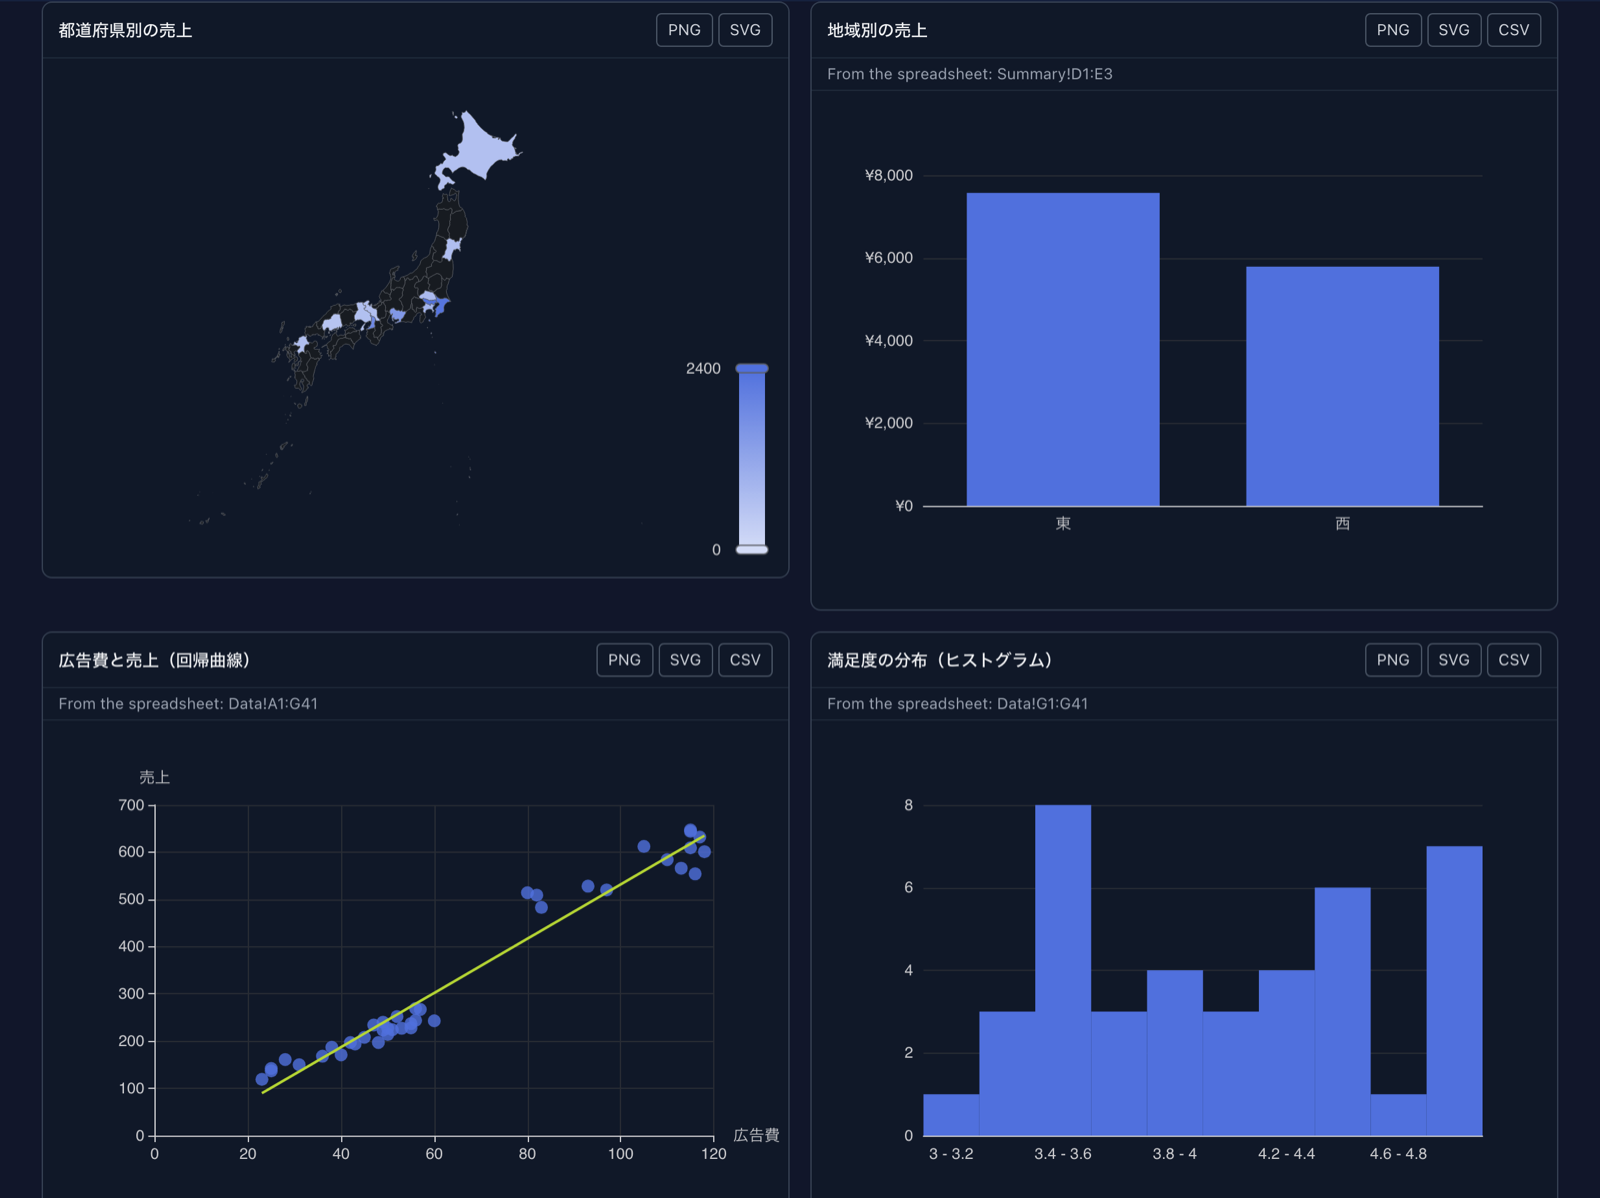
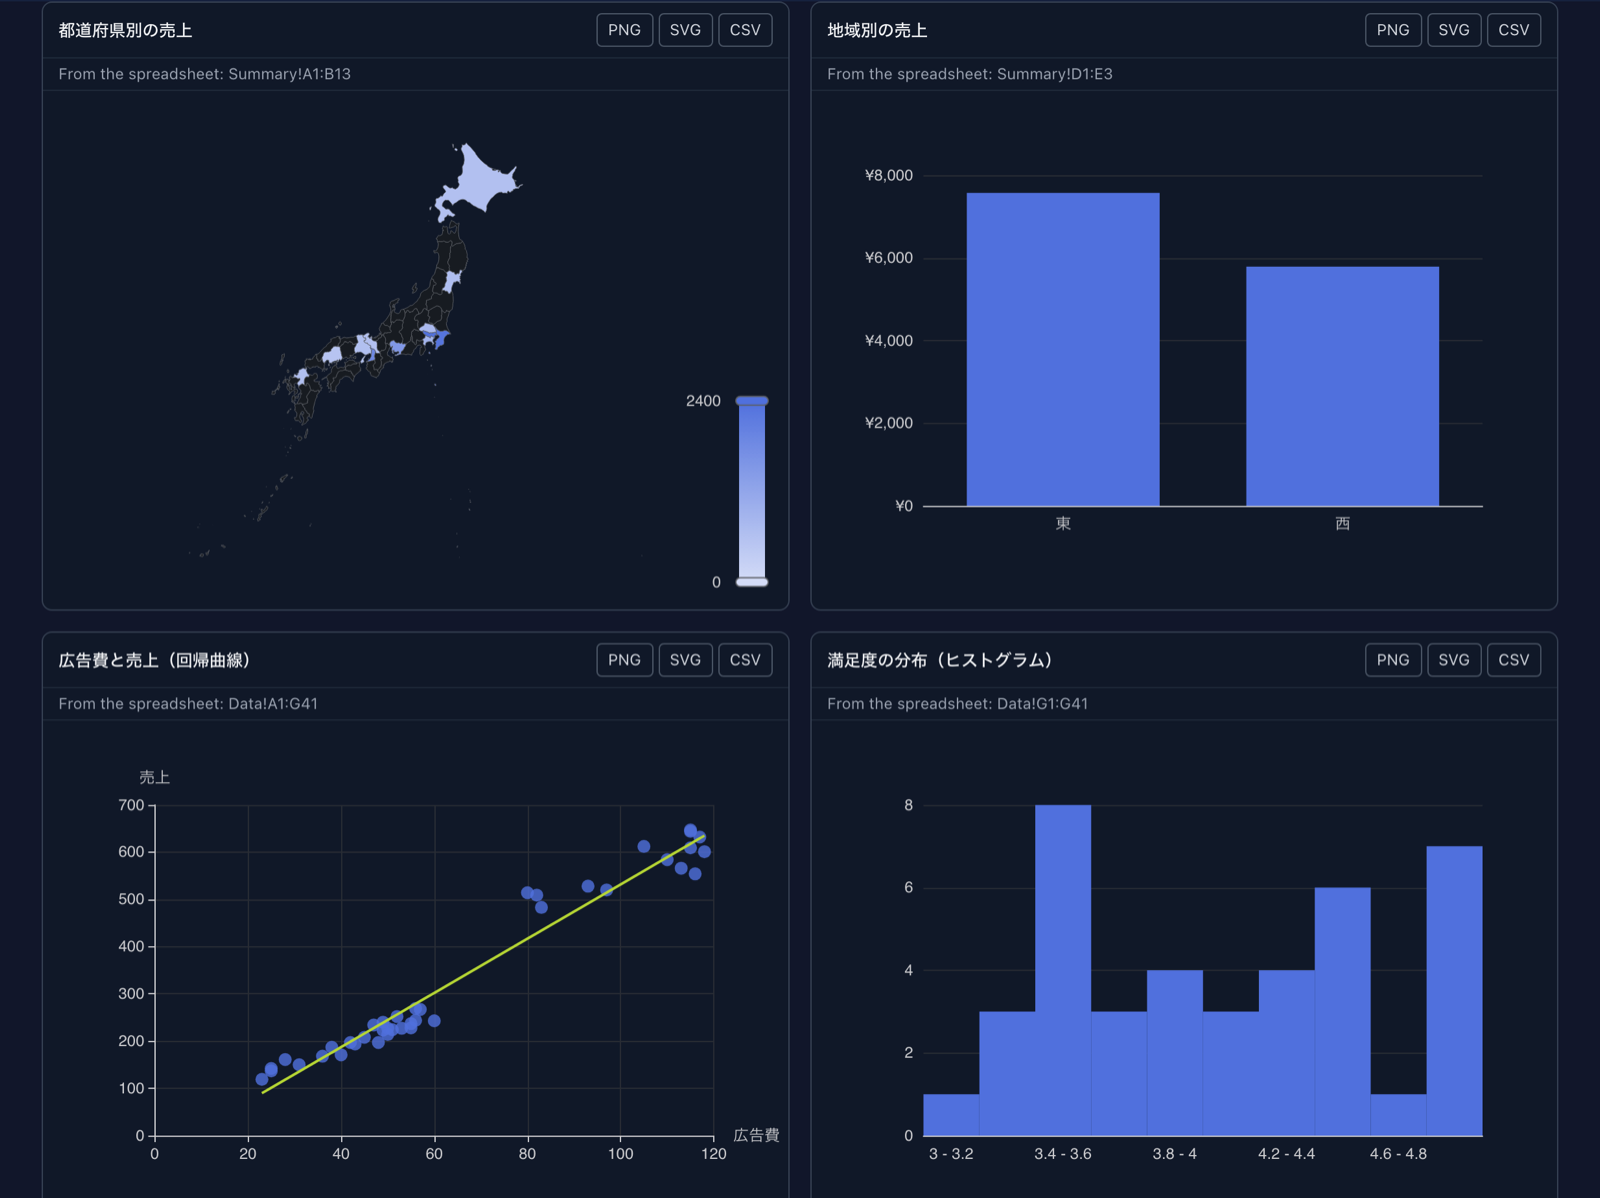
docs: a map drawn from a range is coloured by value now; retake the chart pictures on chart-plugin 4.6.1

diff --git a/docs/guide/en/spreadsheet.md b/docs/guide/en/spreadsheet.md
@@ -56,7 +56,7 @@ boxplots, Pareto charts, two value axes, waterfalls, a fitted line over a scatte
 calendar heatmaps among them. From 4.3.0 it can also fit a curve or bin a histogram from a sheet's raw
 columns, so those charts follow the sheet too. From 4.4.0 it can group points into clusters, box each
 column of a sheet, and colour a map of Japan or the world (prefecture and country names in Japanese
-work too). From 4.5.0 it can draw a word cloud, each word sized by its value. Cards follow a dark theme, can sit side by side, and also download as **SVG** and **CSV**.
+work too). From 4.5.0 it can draw a word cloud, each word sized by its value. Cards follow a dark theme, can sit side by side, and also download as **SVG** and **CSV** (a word cloud as PNG and CSV, a 3D chart as PNG).
 If a chart cannot be drawn, the agent is told why and fixes it before anything is shown.
 
 ![The chart card: monthly coffee and pastry sales as lines, with the monthly total as bars](../images/spreadsheet-chart.png)
@@ -78,8 +78,8 @@ requests like these:
 
 The Canvas was enlarged with the button at its top right, which is what puts the cards two to a row.
 **From the spreadsheet:** under a title names the range a card is drawn from; edit the sheet and the
-card is drawn again. The map here was drawn from values the agent wrote into the chart: a map drawn
-from a sheet range does not colour its regions by value yet.
+card is drawn again. A region with no row in the range, such as a prefecture with no stores, is left
+empty on the map rather than coloured.
 
 The totals behind those cards are formulas that answer a table: `=GROUPBY(Data!B2:B41, Data!E2:E41, SUM, 0, 0)`
 fills one row per prefecture, `LINEST` puts the slope and intercept of the fit beside them, and `T.TEST`
